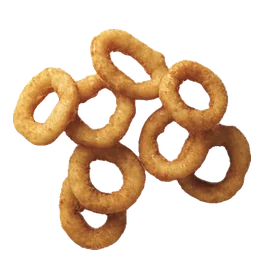
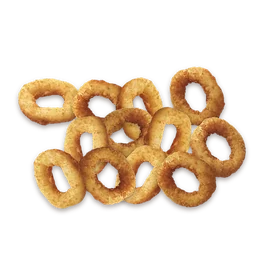
feat: counted piece pictures for chicken, ribs and onion rings
Menu pictures now show the number of pieces each dish has (1, 3, 4, 6 and
10 piece chicken, 2 and 8 ribs, onion ring counts, wings), cut from cached
pieces by assets-src/make_counts.py; box meals and badges redone with them.
A dish with its own photo entry keeps its slug for the picture lookup.
PLAN.md records the shop's devices; the TM-m30II prints through the till.

diff --git a/web/app/lib/menuBuild.js b/web/app/lib/menuBuild.js
@@ -94,9 +94,10 @@ function fromBoard(entry, categoryId, byId, hasImage) {
   };
   const product = entry.from ? need(entry.from) : null;
   const optionSources = product ? [product] : (entry.optionsFrom ?? []).map(need);
+  const slug = product?.slug ?? entry.id;
   return {
     id: product?.id ?? entry.id,
-    slug: product?.slug ?? entry.id,
+    slug,
     categoryId,
     name: entry.name,
     ...splitTitle(entry.name),
@@ -104,7 +105,7 @@ function fromBoard(entry, categoryId, byId, hasImage) {
     description: entry.description ?? product?.description ?? "",
     options: toOptions(mergeOptions(optionSources.map((p) => p.options ?? []))),
     isMeal: isMealName(entry.name),
-    image: photoFor(entry.photo ?? product?.slug, hasImage),
+    image: photoFor(entry.photo ?? slug, hasImage),
   };
 }
 

diff --git a/web/app/lib/menuBuild.test.js b/web/app/lib/menuBuild.test.js
@@ -122,6 +122,14 @@ describe("buildMenu", () => {
     expect(menu.categories[0].items[0]).toMatchObject({ image: "/menu/chicken-wrap.webp", description: "New." });
   });
 
+  test("a new dish shows the picture saved under its own id", () => {
+    const menu = build([{ id: "r", items: [{ id: "bbq-ribs-2", name: "BBQ Ribs – 2 Piece", price: 4.89 }] }], {
+      products: [],
+      hasImage: (slug) => slug === "bbq-ribs-2",
+    });
+    expect(menu.categories[0].items[0].image).toBe("/menu/bbq-ribs-2.webp");
+  });
+
   test("a new dish gets its own id and copies options from the products it names", () => {
     const heat = { label: "Heat", required: true, choices: [{ label: "Hot", price_add: 0 }] };
     const drink = { label: "Drink", required: true, choices: [{ label: "Pepsi", price_add: 0 }] };

diff --git a/assets-src/make_counts.py b/assets-src/make_counts.py
@@ -1,0 +1,259 @@
+"""Dish pictures that show exactly as many pieces as the dish's name says.
+
+The live site used one photo for every size of a dish (the same 7 wings for
+4, 8, 12 and 20 wings; the same 4 ribs for 1, 5 and 12 ribs). This script
+cuts single whole pieces out of the shop's own photos with SAM (a point on
+the piece picks it out, even where it touches its neighbours), then lays out
+exactly N of them in a loose pile, each piece turned and lit a little
+differently so the pile does not look copied.
+
+Meals are the can and chips from the 3 wings meal photo with an exact pile of
+food in front. Dishes with no photo before (1-10 piece chicken, 2 and 8 ribs,
+the 1 and 3 piece chicken meals) are made the same way.
+
+Pieces are cached in assets-src/.pieces/; pass --pieces to cut them again
+(slow: SAM runs on the CPU). Output: web/public/menu/{slug}.webp, plus
+assets-src/.wings-3.png, the 3 wings make_extras.py puts in the box meals.
+Run make_food.py first: the can and chips come from its 3 wings meal.
+"""
+import os
+import random
+import sys
+
+import numpy as np
+from PIL import Image, ImageDraw, ImageEnhance, ImageFilter
+from scipy import ndimage
+
+from make_food import OUT, ROOT, place
+
+HERE = os.path.dirname(os.path.abspath(__file__))
+PIECES = os.path.join(HERE, ".pieces")
+SITE = os.path.join(ROOT, "site-data", "images", "2026", "07")
+UBER = os.path.join(ROOT, "menu item images")
+
+WINGS_PHOTO = os.path.join(SITE, "6-wings-1-scaled-e1783887641782.jpg")
+CHICKEN_PHOTO = os.path.join(SITE, "2-PICE-Chicken-scaled.jpg")
+RIBS_PHOTO = os.path.join(UBER, "BBQ Ribs Meal.jpeg")
+RINGS_PHOTO = os.path.join(UBER, "Onion Rings (8).jpeg")
+
+# Piece name -> (photo, points as (x, y, 1 = on the piece / 0 = not)). Only
+# pieces nothing else covers, so each one is whole. A ring needs points on its
+# band and a "not" point in its hole, or SAM picks the hole.
+PIECE_POINTS = {
+    "wing-a": (WINGS_PHOTO, [(1500, 700, 1)]),
+    "wing-b": (WINGS_PHOTO, [(900, 900, 1)]),
+    "wing-c": (WINGS_PHOTO, [(800, 500, 1)]),
+    "wing-d": (WINGS_PHOTO, [(1300, 350, 1)]),
+    "thigh": (CHICKEN_PHOTO, [(878, 805, 1)]),
+    "drumstick": (CHICKEN_PHOTO, [(1280, 1189, 1), (1646, 695, 1)]),
+    "rib-a": (RIBS_PHOTO, [(280, 290, 1), (350, 320, 1)]),
+    "rib-b": (RIBS_PHOTO, [(400, 180, 1)]),
+    "ring-a": (RINGS_PHOTO, [(85, 150, 1), (175, 135, 1), (130, 145, 0)]),
+    "ring-c": (RINGS_PHOTO, [(345, 130, 1), (445, 130, 1), (395, 130, 0)]),
+}
+
+WINGS = ["wing-a", "wing-b", "wing-c", "wing-d"]
+CHICKEN = ["drumstick", "thigh"]
+RIBS = ["rib-b", "rib-a"]
+RINGS = ["ring-a", "ring-c"]
+# A piece of chicken is about this much longer than a wing.
+PIECE_SCALE = {"drumstick": 1.3, "thigh": 1.3}
+
+# How each kind of piece is piled: (across, down) steps x the piece's size,
+# how far a piece may turn, whether it may be mirrored, how far it may stray,
+# and how rows shift: "zigzag" puts every other row half a step over so
+# pieces show between those in front; "slope" steps each row a little right,
+# so ribs laid level stack like the ribs in the shop's photo.
+STYLE = {
+    "wings": dict(names=WINGS, step=(1.05, 0.72), turn=30, flip=True, jitter=0.12, stagger="zigzag"),
+    "chicken": dict(names=CHICKEN, step=(1.0, 0.75), turn=25, flip=True, jitter=0.12, stagger="zigzag"),
+    "ribs": dict(names=RIBS, step=(2.3, 0.5), turn=3, flip=False, jitter=0.04, stagger="slope", level=True),
+    "rings": dict(names=RINGS, step=(1.0, 0.8), turn=180, flip=True, jitter=0.18, stagger="zigzag"),
+}
+
+# Product slug -> (style, pieces in each row, back to front).
+PILES = {
+    "4-spicy-wings": ("wings", [2, 2]),
+    "8-spicy-wings": ("wings", [3, 2, 3]),
+    "12-spicy-wings": ("wings", [4, 4, 4]),
+    "20-spicy-wings": ("wings", [5, 5, 5, 5]),
+    "1-piece-chicken": ("chicken", [1]),
+    "2-piece-chicken": ("chicken", [2]),
+    "3-piece-chicken": ("chicken", [1, 2]),
+    "4-piece-chicken": ("chicken", [2, 2]),
+    "6-piece-chicken": ("chicken", [3, 3]),
+    "10-piece-chicken": ("chicken", [3, 4, 3]),
+    "bbq-lamb-ribs-x-1": ("ribs", [1]),
+    "bbq-ribs-2": ("ribs", [1, 1]),
+    "bbq-lamb-ribs-x-5": ("ribs", [1, 1, 1, 1, 1]),
+    "bbq-ribs-8": ("ribs", [2, 2, 2, 2]),
+    "bbq-lamb-ribs-x-12": ("ribs", [2, 2, 2, 2, 2, 2]),
+    "onion-ringas-x-4": ("rings", [3, 3]),  # sold as "Onion Rings (6 Pcs)"
+    "onion-ringas-x-8": ("rings", [4, 4, 4]),  # (12 Pcs)
+    "onion-ringas-x-12": ("rings", [5, 5, 5, 5]),  # (20 Pcs)
+}
+
+# Meal slug -> (style, pieces in each row, the pieces in order). The pile
+# sits in front of the can and chips.
+MEALS = {
+    "6-spicy-wings-meal": ("wings", [3, 3], WINGS),
+    "flex-combo-meal-1": ("wings", [3, 1], ["wing-a", "wing-c", "wing-b", "drumstick"]),
+    "1-piece-chicken-meal": ("chicken", [1], ["drumstick"]),
+    "3-piece-chicken-meal": ("chicken", [1, 2], ["drumstick", "thigh", "drumstick"]),
+}
+# The can and chips in the 3 wings meal cut-out (720 px): the right of the
+# picture, less the wing lying across the can's foot.
+DRINK_AND_CHIPS = [(395, 260), (700, 260), (700, 650), (522, 650), (522, 520), (490, 468), (450, 446), (395, 428)]
+MEAL_WING = 135  # wing size in the meal cut-out, px (sqrt of its area)
+FOOD_RIGHT = 530  # the food's right edge tucks over the foot of the can
+FOOD_FOOT = 668  # and its foot sits where the 3 wings meal's wings sat
+BOX_WINGS = os.path.join(HERE, ".wings-3.png")
+
+SHADOW = (40, 20, 8)
+SIDE = 300  # px a wing is drawn at before the dish is fitted to its plate
+
+
+def largest_part(cut: Image.Image) -> Image.Image:
+    """Keeps the biggest solid blob, dropping specks SAM picked up nearby."""
+    alpha = np.array(cut.getchannel("A"))
+    labels, count = ndimage.label(alpha > 128)
+    if count > 1:
+        sizes = ndimage.sum(alpha > 128, labels, range(1, count + 1))
+        keep = ndimage.binary_dilation(labels == 1 + int(np.argmax(sizes)), iterations=3)
+        cut.putalpha(Image.fromarray(np.where(keep, alpha, 0).astype(np.uint8)))
+    return cut.crop(cut.getbbox())
+
+
+def cut_pieces() -> None:
+    from rembg import new_session, remove
+
+    os.makedirs(PIECES, exist_ok=True)
+    session = new_session("sam")
+    for name, (photo, points) in PIECE_POINTS.items():
+        src = Image.open(photo).convert("RGB")
+        prompt = [{"type": "point", "data": [x, y], "label": label} for x, y, label in points]
+        cut = remove(src, session=session, sam_prompt=prompt)
+        largest_part(cut).save(os.path.join(PIECES, f"{name}.png"))
+        print("piece", name)
+
+
+def piece(name: str) -> Image.Image:
+    return Image.open(os.path.join(PIECES, f"{name}.png")).convert("RGBA")
+
+
+def level(im: Image.Image) -> Image.Image:
+    """Turns a long piece so its long axis lies flat."""
+    ys, xs = np.nonzero(np.array(im.getchannel("A")) > 128)
+    cov = np.cov(np.vstack([xs - xs.mean(), ys - ys.mean()]))
+    vx, vy = np.linalg.eigh(cov)[1][:, -1]
+    turned = im.rotate(np.degrees(np.arctan2(vy, vx)), resample=Image.BICUBIC, expand=True)
+    return turned.crop(turned.getbbox())
+
+
+def sized(im: Image.Image, side: float) -> Image.Image:
+    """Scales so the piece's solid area equals side x side: pieces cut from
+    photos shot at different distances come out the same real size."""
+    area = float((np.array(im.getchannel("A")) > 128).sum())
+    k = side / area**0.5
+    return im.resize((max(1, round(im.width * k)), max(1, round(im.height * k))), Image.LANCZOS)
+
+
+def varied(im: Image.Image, rng: random.Random, turn: float, flip: bool) -> Image.Image:
+    """The same piece, turned, maybe mirrored and lit a touch differently."""
+    if flip and rng.random() < 0.5:
+        im = im.transpose(Image.FLIP_LEFT_RIGHT)
+    im = im.rotate(rng.uniform(-turn, turn), resample=Image.BICUBIC, expand=True)
+    alpha = im.getchannel("A")
+    rgb = ImageEnhance.Brightness(im.convert("RGB")).enhance(rng.uniform(0.93, 1.05))
+    rgb = ImageEnhance.Color(rgb).enhance(rng.uniform(0.95, 1.08))
+    out = rgb.convert("RGBA")
+    out.putalpha(alpha)
+    return out.crop(out.getbbox())
+
+
+def pile(style: str, rows: list, side: float = SIDE, names: list = None, seed: int = 0) -> Image.Image:
+    """Exactly sum(rows) pieces in staggered rows, back to front, each in view."""
+    kind = STYLE[style]
+    names = names or kind["names"]
+    rng = random.Random(seed or sum(rows))
+    across, down = kind["step"]
+    placed = []
+    k = 0
+    for r, count in enumerate(rows):
+        for c in range(count):
+            name = names[k % len(names)]
+            im = level(piece(name)) if kind.get("level") else piece(name)
+            im = varied(sized(im, side * PIECE_SCALE.get(name, 1)), rng, kind["turn"], kind["flip"])
+            shift = (0.25 if r % 2 else -0.25) * across if kind["stagger"] == "zigzag" else 0.18 * r
+            cx = ((c - (count - 1) / 2) * across + shift) * side
+            cy = r * down * side
+            cx += rng.uniform(-1, 1) * kind["jitter"] * side
+            cy += rng.uniform(-1, 1) * kind["jitter"] * side
+            placed.append((cy, cx, im))
+            k += 1
+    placed.sort(key=lambda p: p[0])  # nearer the front is drawn last, on top
+    return compose([(round(cx - im.width / 2), round(cy - im.height / 2), im) for cy, cx, im in placed], side)
+
+
+def compose(items: list, side: float) -> Image.Image:
+    """Draws (x, y, image) in order, each with a soft shadow below it."""
+    pad = round(side * 0.3)
+    left = min(x for x, _, _ in items) - pad
+    top = min(y for _, y, _ in items) - pad
+    width = max(x + im.width for x, _, im in items) - left + pad
+    height = max(y + im.height for _, y, im in items) - top + pad
+    canvas = Image.new("RGBA", (width, height), (0, 0, 0, 0))
+    blur = max(2, side * 0.05)
+    room = round(blur * 3)  # so the blur fades out instead of stopping at a hard edge
+    for x, y, im in items:
+        mask = Image.new("L", (im.width + 2 * room, im.height + 2 * room), 0)
+        mask.paste(im.getchannel("A").point(lambda a: a * 0.4), (room, room))
+        shade = Image.new("RGBA", mask.size, SHADOW + (0,))
+        shade.putalpha(mask.filter(ImageFilter.GaussianBlur(blur)))
+        canvas.alpha_composite(shade, (x - left - room, y - top - room + round(side * 0.05)))
+        canvas.alpha_composite(im, (x - left, y - top))
+    return canvas.crop(canvas.getbbox())
+
+
+def drink_and_chips() -> Image.Image:
+    meal = Image.open(os.path.join(OUT, "3-spicy-wings-meal.webp")).convert("RGBA")
+    keep = Image.new("L", meal.size, 0)
+    ImageDraw.Draw(keep).polygon(DRINK_AND_CHIPS, fill=255)
+    alpha = Image.fromarray(np.minimum(np.array(meal.getchannel("A")), np.array(keep)))
+    meal.putalpha(alpha)
+    return meal
+
+
+def meal(style: str, rows: list, names: list) -> Image.Image:
+    """Can and chips at the back right, the food in front of them, left."""
+    back = drink_and_chips()
+    food = pile(style, rows, side=MEAL_WING, names=names, seed=sum(rows) + 100)
+    x, y = FOOD_RIGHT - food.width, FOOD_FOOT - food.height
+    left, top = min(0, x), min(0, y)
+    canvas = Image.new("RGBA", (max(back.width, x + food.width) - left, max(back.height, y + food.height) - top))
+    canvas.alpha_composite(back, (-left, -top))
+    canvas.alpha_composite(food, (x - left, y - top))
+    return canvas.crop(canvas.getbbox())
+
+
+def save(im: Image.Image, slug: str) -> None:
+    dish = place(im)
+    rgb = dish.convert("RGB").filter(ImageFilter.UnsharpMask(radius=1.4, percent=50, threshold=2))
+    rgb.putalpha(dish.getchannel("A"))
+    rgb.save(os.path.join(OUT, f"{slug}.webp"), quality=84, method=6)
+    print("ok", slug)
+
+
+def main() -> None:
+    if "--pieces" in sys.argv or not os.path.isdir(PIECES):
+        cut_pieces()
+    for slug, (style, rows) in PILES.items():
+        save(pile(style, rows), slug)
+    for slug, (style, rows, names) in MEALS.items():
+        save(meal(style, rows, names), slug)
+    pile("wings", [2, 1]).save(BOX_WINGS)
+    print("ok box wings ->", os.path.relpath(BOX_WINGS, ROOT))
+
+
+if __name__ == "__main__":
+    main()

diff --git a/assets-src/make_extras.py b/assets-src/make_extras.py
@@ -5,8 +5,9 @@
   is convex, so the cut-out is filled out to its convex hull.
 - Water: a plain bottle with no brand, drawn in water-bottle.svg. Render it
   first (see below), this script places it like every other dish.
-- Box meals: each is the burger meal photo (burger, chips, can) with wings in
-  front, as the box has "chips, drink & 3 wings". The variety box uses the
+- Box meals: each is the burger meal photo (burger, chips, can) with 3 wings
+  in front, as the box has "chips, drink & 3 wings". Run make_counts.py
+  first: it lays out the 3 wings. The variety box uses the
   2 piece chicken meal.
 - Category badges: one dish per category, cropped tight and centred, so it
   fills the round badge instead of sitting small at the bottom of it.
@@ -36,7 +37,7 @@ BOX_MEALS = {
     "fusion-flex-burger-box-meal": "fusion-flex-burger-meal",  # already boxed, with wings
     "flex-variety-box": "2-piece-chicken-meal",
 }
-WINGS = "4-spicy-wings"
+WINGS = os.path.join(HERE, ".wings-3.png")  # exactly 3, made by make_counts.py
 HAS_WINGS = {"fusion-flex-burger-meal"}
 WINGS_WIDTH = 0.36  # x the meal photo's width
 WINGS_OVERLAP = 0.28  # how far the wings tuck under the meal, x their width
@@ -114,7 +115,8 @@ def make_box(meal_slug: str) -> Image.Image:
     meal = load(meal_slug)
     if meal_slug in HAS_WINGS:
         return meal
-    wings = load(WINGS)
+    wings = Image.open(WINGS).convert("RGBA")
+    wings = wings.crop(wings.getbbox())
     w = round(meal.width * WINGS_WIDTH)
     wings = wings.resize((w, round(wings.height * w / wings.width)), Image.LANCZOS)
     # The wings sit in front, low and right of centre, overlapping the meal.

diff --git a/PLAN.md b/PLAN.md
@@ -28,6 +28,10 @@ The front end runs in `web/`; see [web/README.md](web/README.md) for commands an
 - A separate **Delivery** panel lets drivers take a ready order at pickup and share their live location, so the customer can watch the driver come.
 - Postcodes outside every delivery zone are flagged at checkout as collection only.
 - A **staff clock** in its own panel (`/clock`): each person clocks in and out with a personal 4-digit PIN. The owner manages the team and reads weekly hours (with a CSV for payroll) under **Admin → Staff & hours**.
+- **Counter & Till Hardware (confirmed):**
+  - **Till terminal:** **SUNMI D3 Pro** Smart Desktop POS Terminal (15.6″ Android 13 touchscreen running Chrome for the kitchen screen, orders board, and staff clock).
+  - **Counter receipt printer:** **Epson TM-m30II** (Model M362B, 80mm thermal, plugged into the router; it has no Server Direct Print, so the till’s open /staff page sends it each receipt over the shop network: Admin → Shop → Receipt printer, "sent by the till").
+  - **Kitchen printer:** **SUNMI NT311** (80mm Kitchen Cloud POS Printer, grease/splash-resistant).
 
 **Phone-first layout, changed from the wireframe with the owner's go-ahead:** on a phone the badges sit above the table as one 5 × 2 grid. The table takes the full width and still runs off the right edge. Contact is in the footer, and there is a short About section.
 
